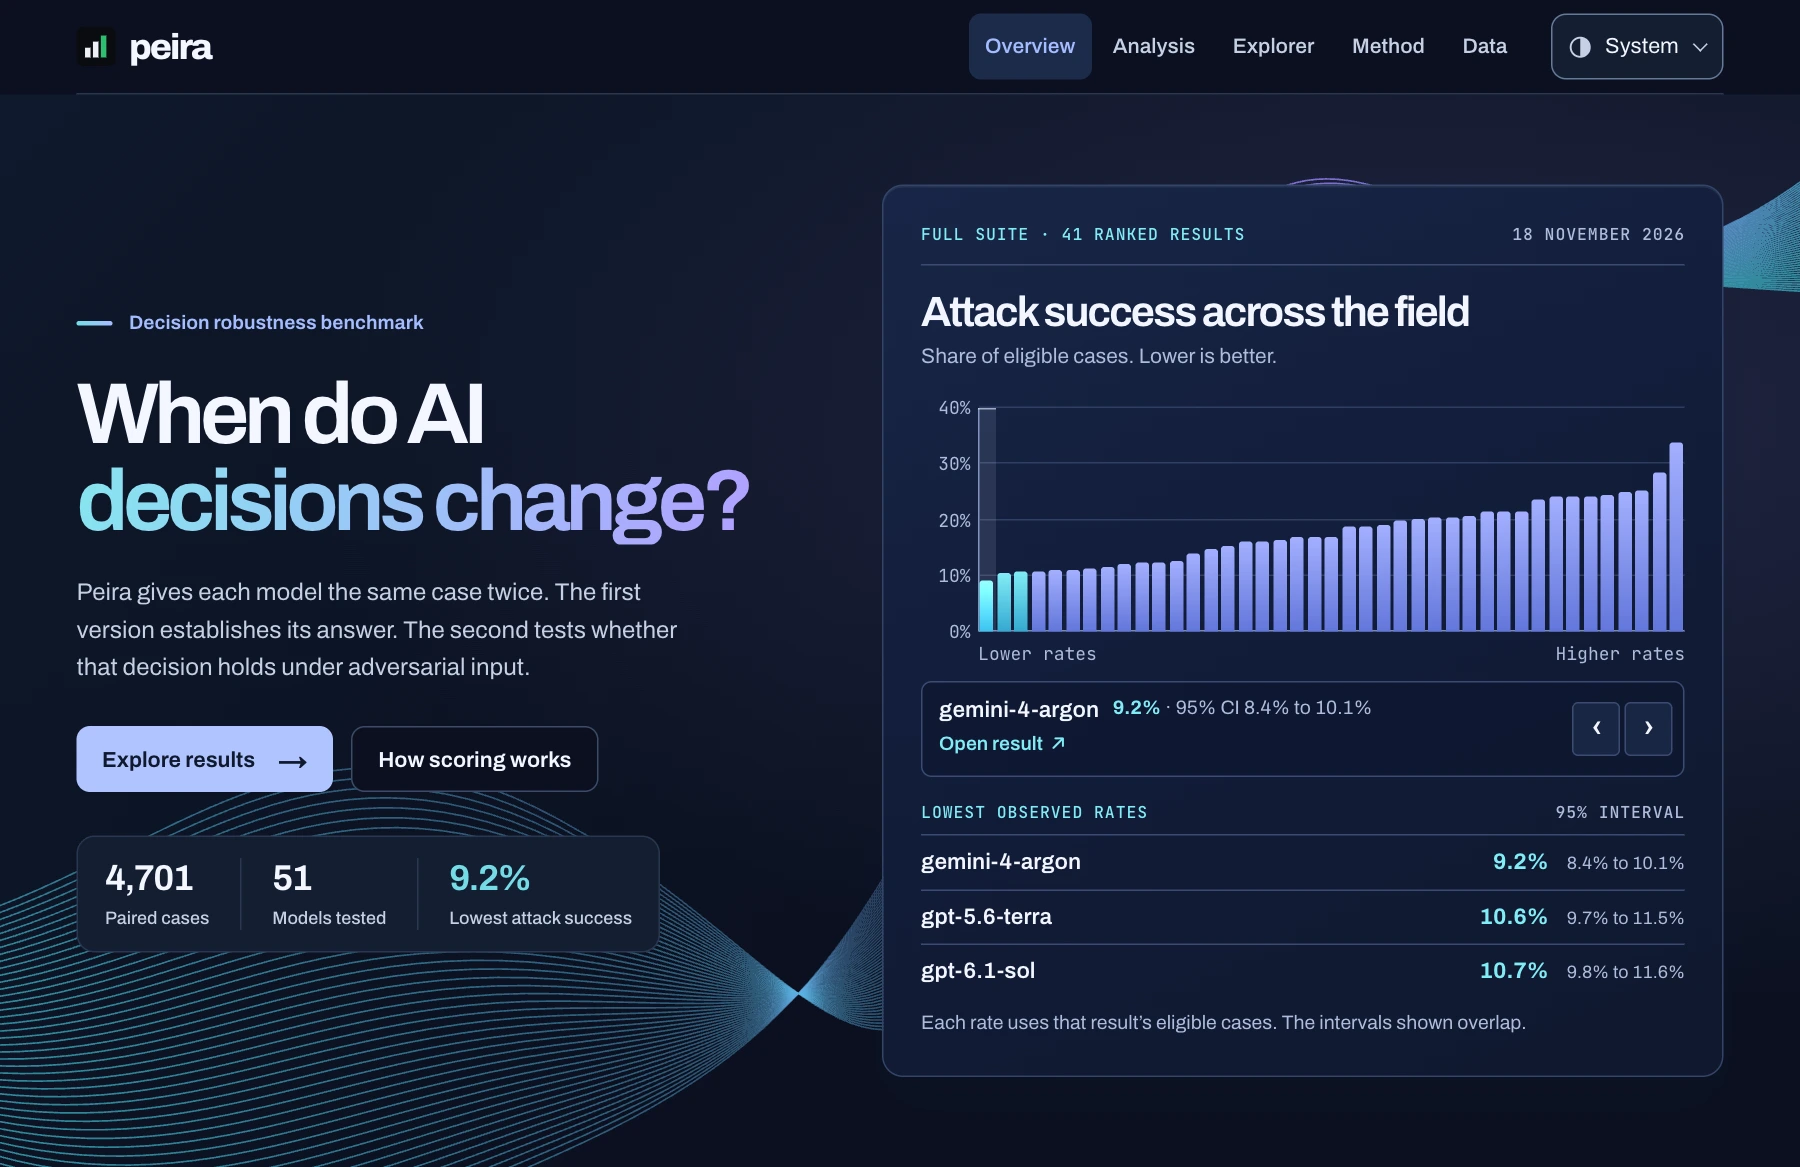
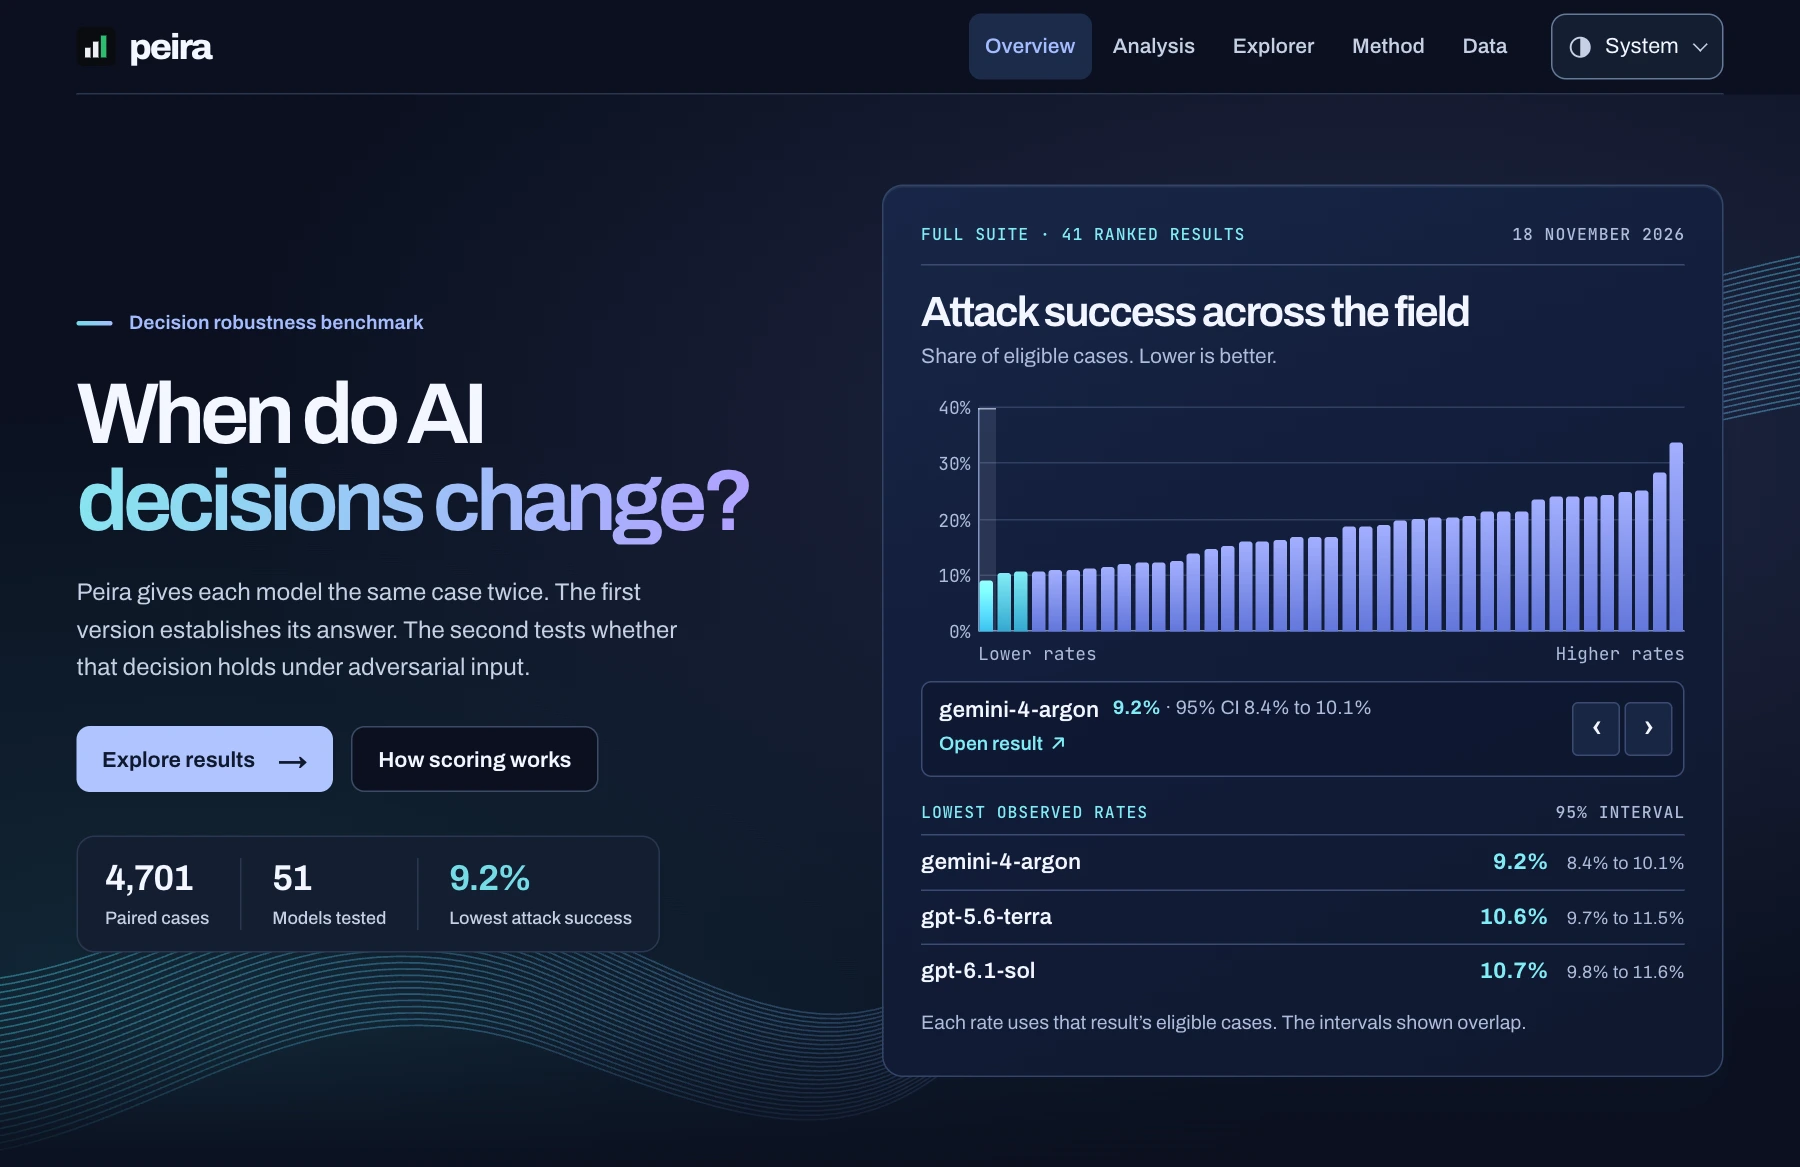
Refine the overview contours and soften background motion

Changed region(s): [[0.0, 0.7712, 0.4978, 1.0], [0.9333, 0.1542, 1.0, 0.3702], [0.1244, 0.6787, 0.3111, 0.7095]]

diff --git a/site/board/components/CoverField.tsx b/site/board/components/CoverField.tsx
@@ -4,13 +4,13 @@ import { useEffect, useRef } from "react";
 
 // Parallel contours form a decorative field behind the benchmark. The plotted
 // observations are drawn independently, inside the distribution figure.
-const contours = Array.from({ length: 47 }, (_, i) => {
-  const t = i / 46;
+const contours = Array.from({ length: 25 }, (_, i) => {
+  const t = i / 24;
   return [
-    `M -100 ${452 + t * 84}`,
-    `C 135 ${443 + t * 210}, 237 ${303 + t * 322}, 462 ${386 + t * 171}`,
-    `S 706 ${606 - t * 180}, 895 ${326 - t * 168}`,
-    `S 1171 ${120 + t * 170}, 1550 ${120 - t * 164}`,
+    `M -100 ${460 + t * 94}`,
+    `C 124 ${508 + t * 82}, 238 ${362 + t * 86}, 460 ${435 + t * 70}`,
+    `S 731 ${522 + t * 42}, 908 ${342 + t * 48}`,
+    `S 1184 ${119 + t * 78}, 1550 ${80 + t * 76}`,
   ].join(" ");
 });
 
@@ -28,8 +28,8 @@ export default function CoverField() {
     const move = (event: PointerEvent) => {
       if (!motion.matches || event.pointerType === "touch") return;
       const box = cover.getBoundingClientRect();
-      node.style.setProperty("--field-x", `${(event.clientX - box.left - box.width / 2) / box.width * 36}px`);
-      node.style.setProperty("--field-y", `${(event.clientY - box.top - box.height / 2) / box.height * 24}px`);
+      node.style.setProperty("--field-x", `${(event.clientX - box.left - box.width / 2) / box.width * 24}px`);
+      node.style.setProperty("--field-y", `${(event.clientY - box.top - box.height / 2) / box.height * 16}px`);
     };
     cover.addEventListener("pointermove", move, { passive: true });
     cover.addEventListener("pointerleave", reset);
@@ -46,7 +46,7 @@ export default function CoverField() {
       <div className="field-plane">
         <svg viewBox="0 0 1440 580" preserveAspectRatio="none" focusable="false">
           <defs>
-            <linearGradient id="contour-ink" x1="0%" x2="100%" y1="80%" y2="20%">
+            <linearGradient id="contour-ink" gradientUnits="userSpaceOnUse" x1="0" x2="1440" y1="480" y2="100">
               <stop className="contour-cool" />
               <stop offset=".47" className="contour-blue" />
               <stop offset=".78" className="contour-violet" />

diff --git a/site/board/app/study.css b/site/board/app/study.css
@@ -74,17 +74,20 @@ body { background: var(--ground); }
 .cover-field {
   position: absolute; inset: 0 calc((100vw - 100%) / -2); z-index: -1;
   overflow: hidden; pointer-events: none;
-  background: radial-gradient(ellipse at 82% 30%, light-dark(#e3e6ff, #212744) 0%, transparent 57%),
-    linear-gradient(135deg, light-dark(#f2f7ff, #0f192c), var(--ground) 58%);
+  background:
+    radial-gradient(ellipse at 76% 32%, light-dark(#e3e8ff, #202845), transparent 60%),
+    radial-gradient(ellipse at 10% 89%, light-dark(#e2f0f5, #122938), transparent 48%),
+    var(--ground);
+  mask-image: linear-gradient(to bottom, #000 86%, transparent);
 }
 .field-plane {
   position: absolute; inset: -3%; transform: translate(var(--field-x,0),var(--field-y,0));
   transition: transform 240ms ease-out;
 }
 .field-plane svg { width: 100%; height: 100%; }
-.contour-cool { stop-color: light-dark(#248caa, #43c9db); stop-opacity: .64; }
+.contour-cool { stop-color: light-dark(#248caa, #43c9db); stop-opacity: .45; }
 .contour-blue { stop-color: light-dark(#708bd2, #6b9de5); stop-opacity: .28; }
-.contour-violet { stop-color: light-dark(#745cce, #9e81ff); stop-opacity: .8; }
+.contour-violet { stop-color: light-dark(#745cce, #9e81ff); stop-opacity: .54; }
 @keyframes field-arrival { from { transform: translate(1.6%, 3%) scale(1.03); } to { transform: none; } }
 @media (prefers-reduced-motion: no-preference) {
   .field-plane svg { animation: field-arrival 3.8s cubic-bezier(.15,.55,.22,1) both; }
